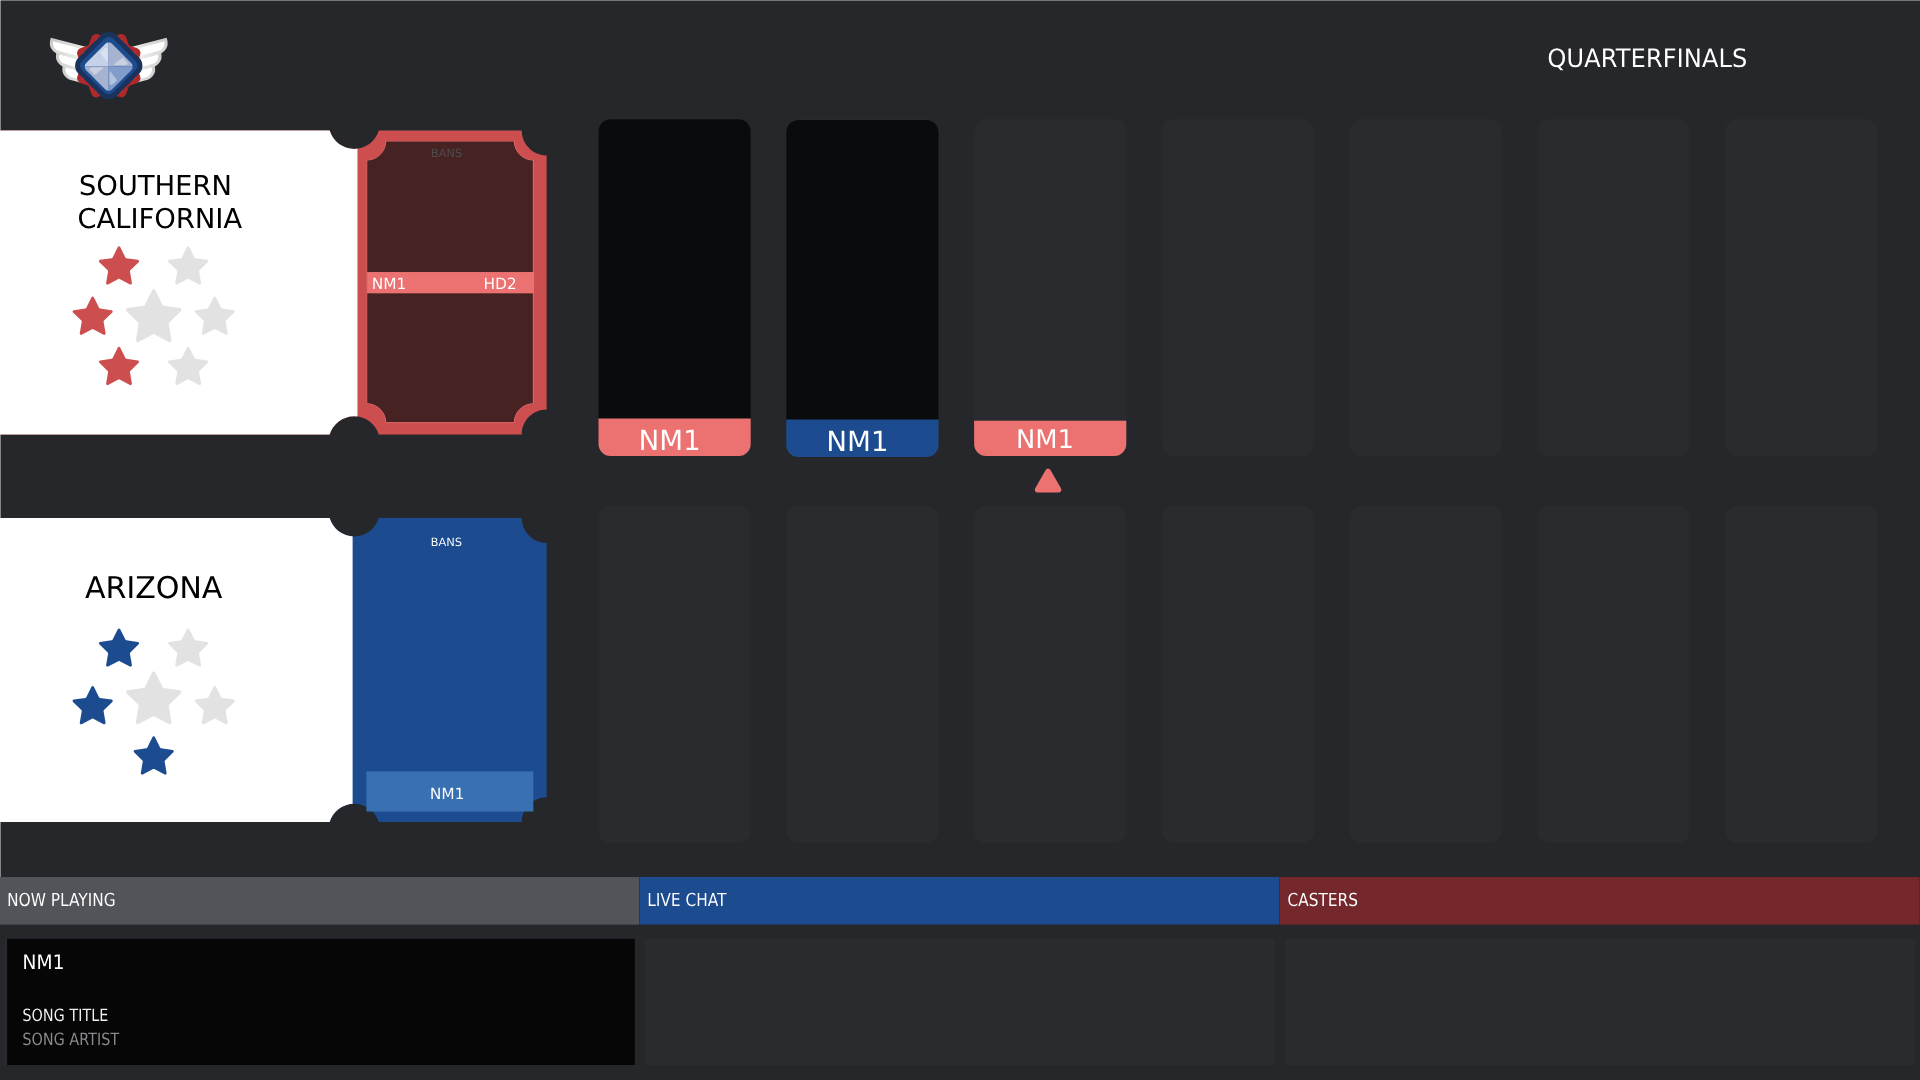
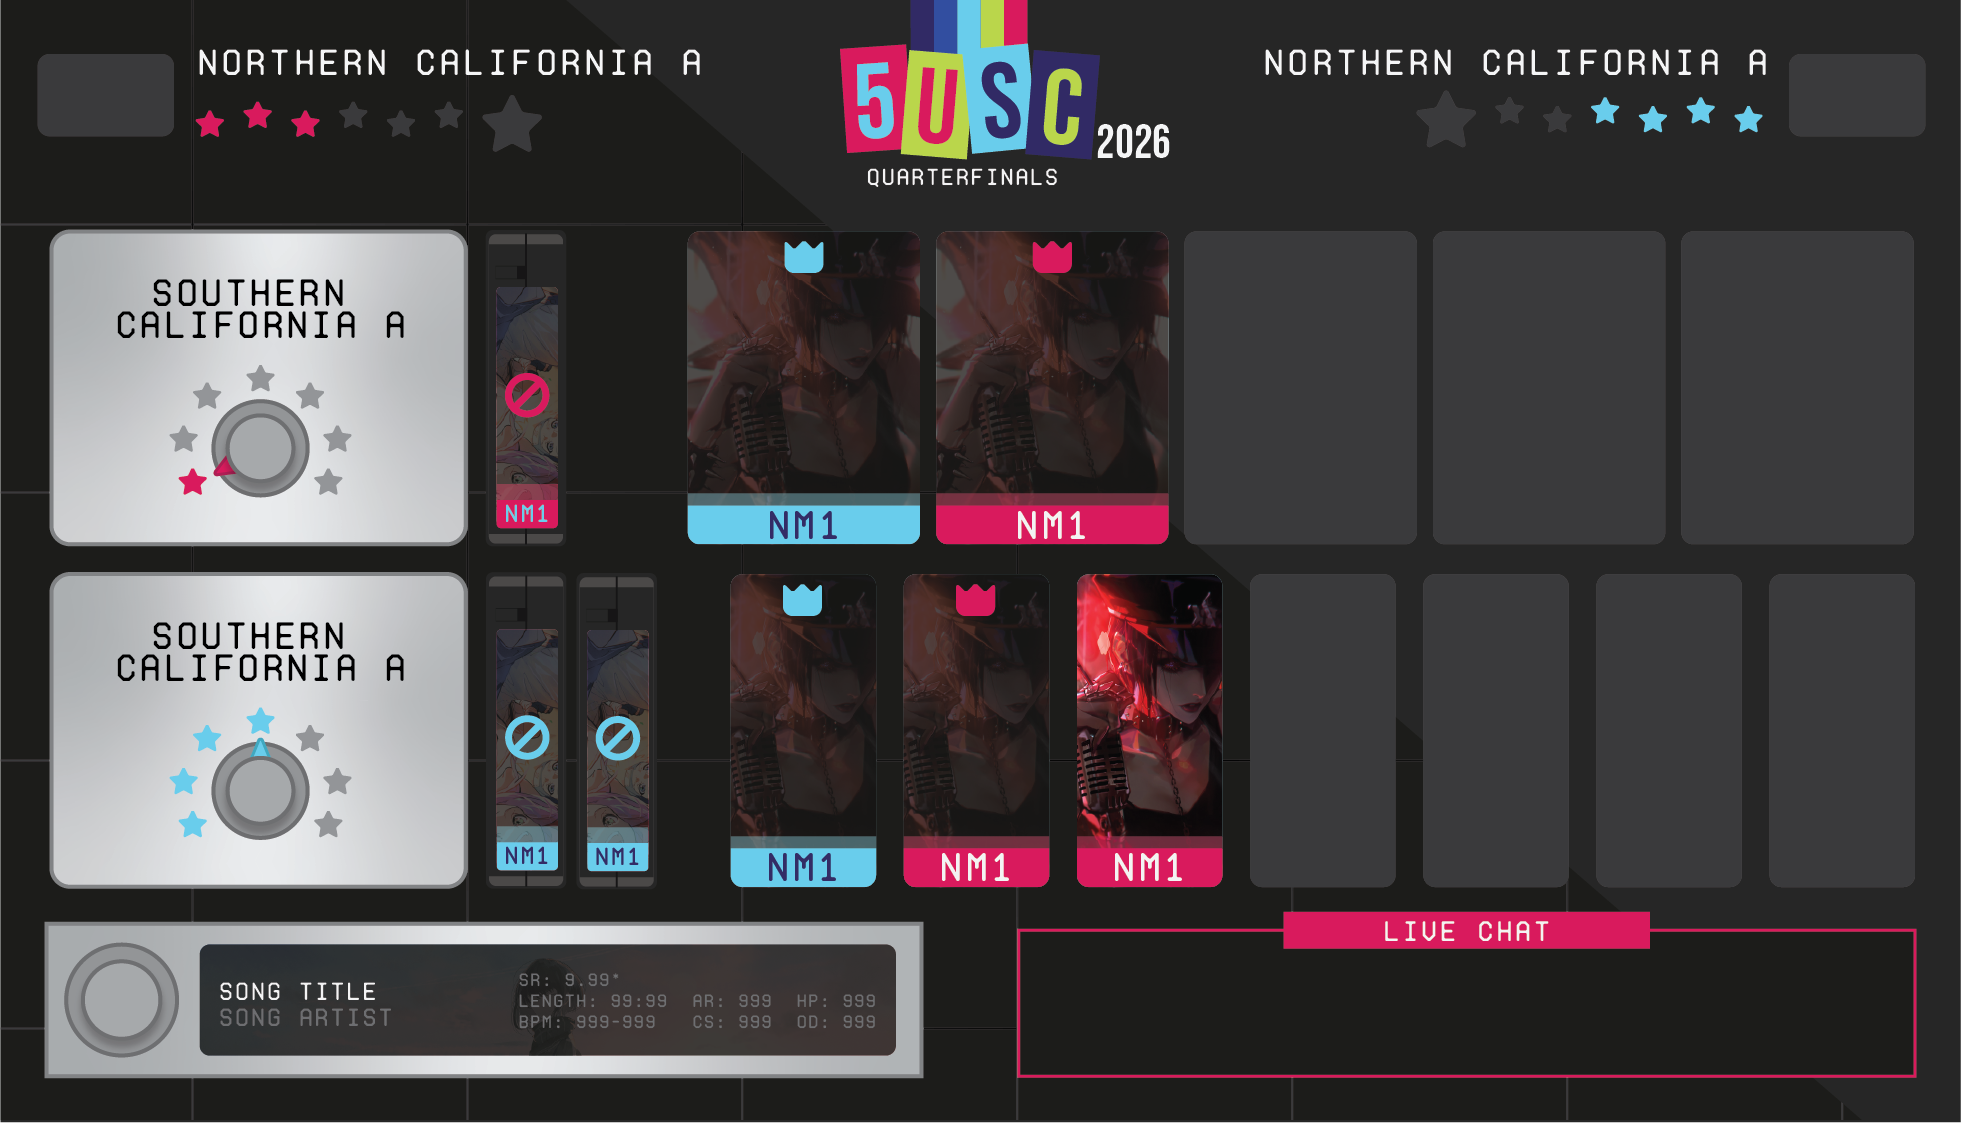
feat: add new bg in

diff --git a/mappool/style.css b/mappool/style.css
@@ -45,7 +45,7 @@ video {
     left: 0;
     width: 1920px;
     height: 1080px;
-    /* background-image: url("static/background.png"); */
+    background-image: url("static/background.png");
     background-size: cover;
     background-position: center;
 }
